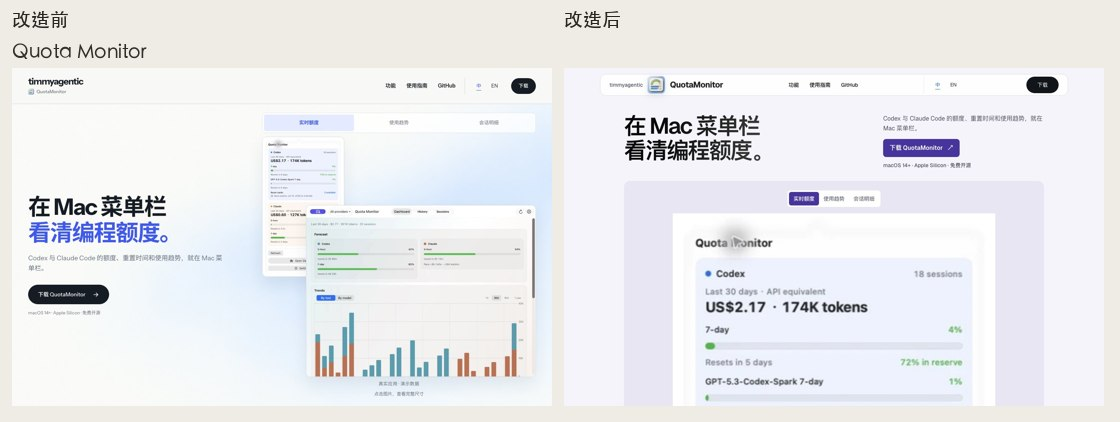
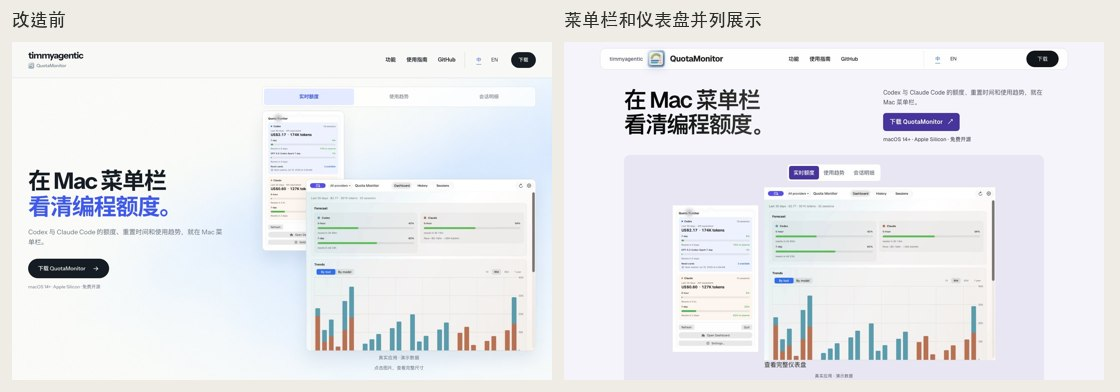
Keep both quota previews visible across viewport sizes

diff --git a/website/public/landing.css b/website/public/landing.css
@@ -130,8 +130,7 @@
 .landing-quota .showcase-tabs button { min-width:0; height:auto; min-height:36px; padding:4px 12px; border-radius:6px; font:var(--caption-2); }
 .landing-quota .showcase-tabs button[aria-selected=true] { background:var(--key); color:white; }
 .landing-quota .showcase-stage, .landing-quota .showcase-panel { width:100%; height:auto; min-height:0; padding:0; margin:0 auto; }
-.landing-quota :is(.showcase-panel:not([hidden]), .hero-product) { display:block; position:relative; }
-.landing-quota .hero-product { width:min(100%,760px); height:auto; margin:0 auto; }
+.landing-quota .showcase-panel:not([hidden]) { display:block; position:relative; }
 .landing-quota .hero-product .product-window { background:transparent; box-shadow:none; border:0; }
 .landing-quota .hero-dashboard-window { display:block; position:relative; inset:auto; width:82%; margin-left:auto; }
 .landing-quota .hero-menu-window { position:absolute; inset:8% auto auto 0; width:24%; z-index:1; }
@@ -153,10 +152,10 @@
 
 .landing-quota .hero-product {
   display:grid; grid-template-columns:minmax(0,.27fr) minmax(0,.73fr);
-  align-items:center; gap:16px; padding:0; min-height:0; width:min(100%,860px);
+  position:relative; align-items:center; gap:16px; margin:0 auto; padding:0; min-height:0; width:min(100%,860px);
 }
 .landing-quota .hero-product :is(.hero-menu-window,.hero-dashboard-window) {
-  inset:auto; position:static; width:100%; margin:0; height:auto; overflow:visible; transform:none;
+  inset:auto; position:static; width:100%; min-width:0; margin:0; height:auto; overflow:visible; transform:none;
 }
 .landing-quota .hero-product .hero-dashboard-window img { height:auto; max-height:none; object-fit:contain; }
 .landing-quota .showcase-panel { display:block; }

diff --git a/CHANGELOG.zh-Hans.md b/CHANGELOG.zh-Hans.md
@@ -30,6 +30,7 @@ appcast 中按系统语言切换的双语更新说明。
 
 #### Summary
 
+- 产品官网在桌面和手机上并列展示菜单栏和完整仪表盘。
 - 官网的小字号图注在浅色底上使用深色文字。
 - 官网并排展示菜单栏和仪表盘，可切换额度、趋势和会话。
 - 官网恢复原来的布局、配色和仪表盘浏览方式。

diff --git a/CHANGELOG.md b/CHANGELOG.md
@@ -36,6 +36,7 @@ window copy.
 
 #### Summary
 
+- Keep the menu-bar screenshot and full dashboard side by side at every supported website width.
 - Improve the contrast of website captions and image hints.
 - Show remaining coding quota with an interactive overview on the product website.
 - The website uses its original layout, colors, and dashboard controls.
